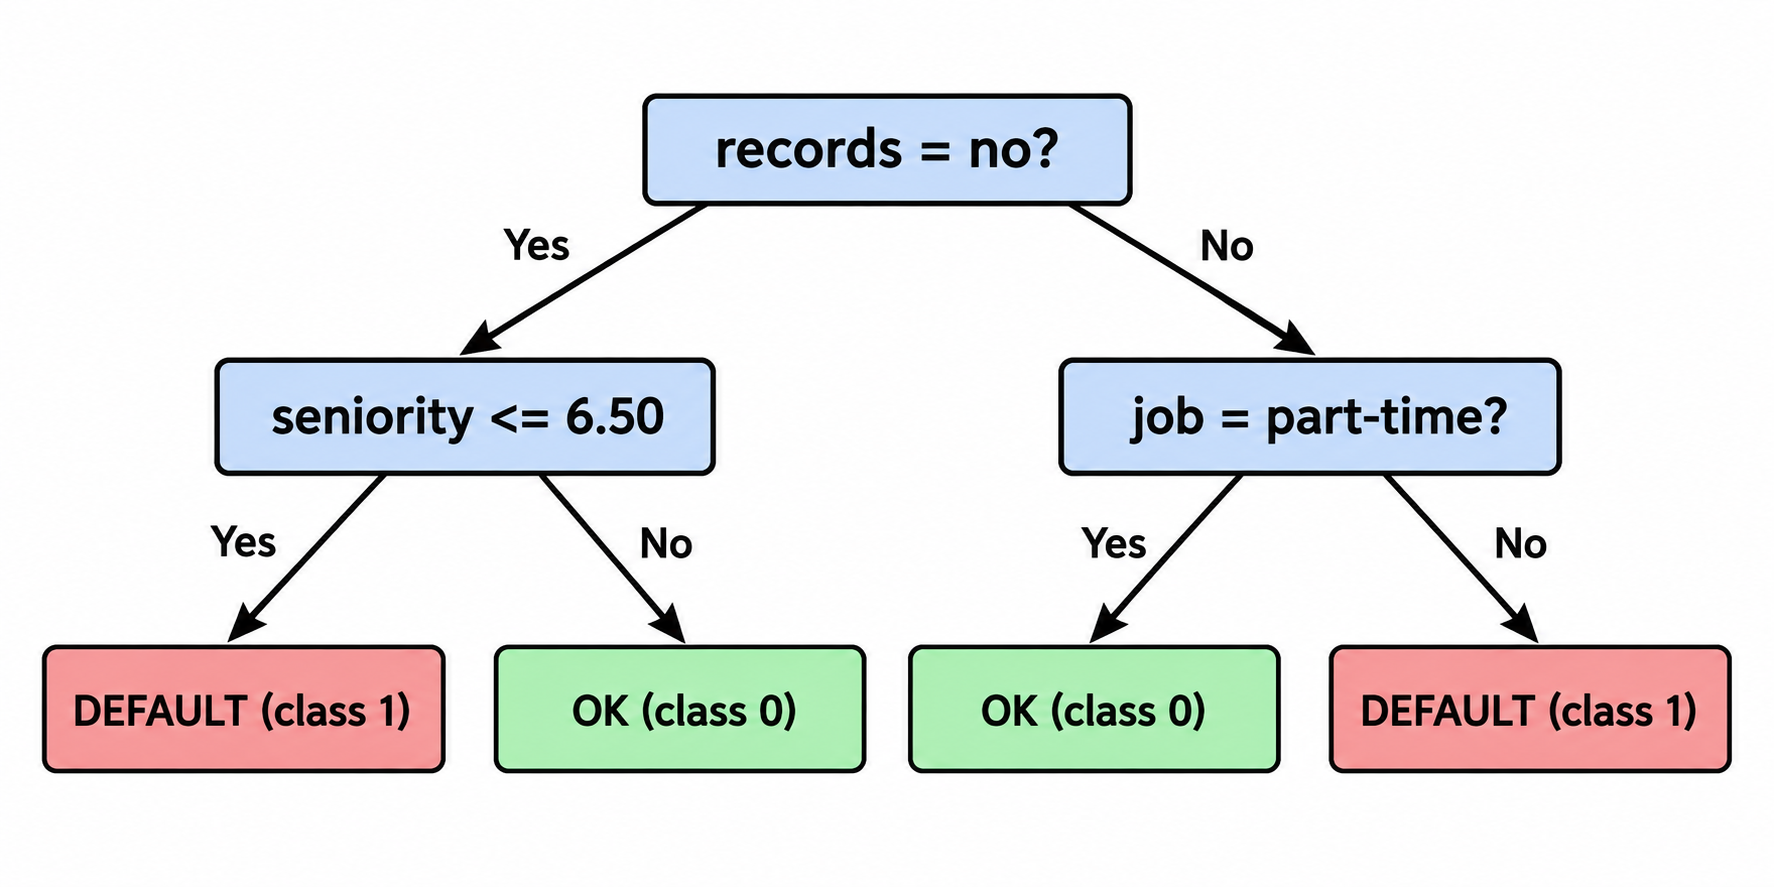
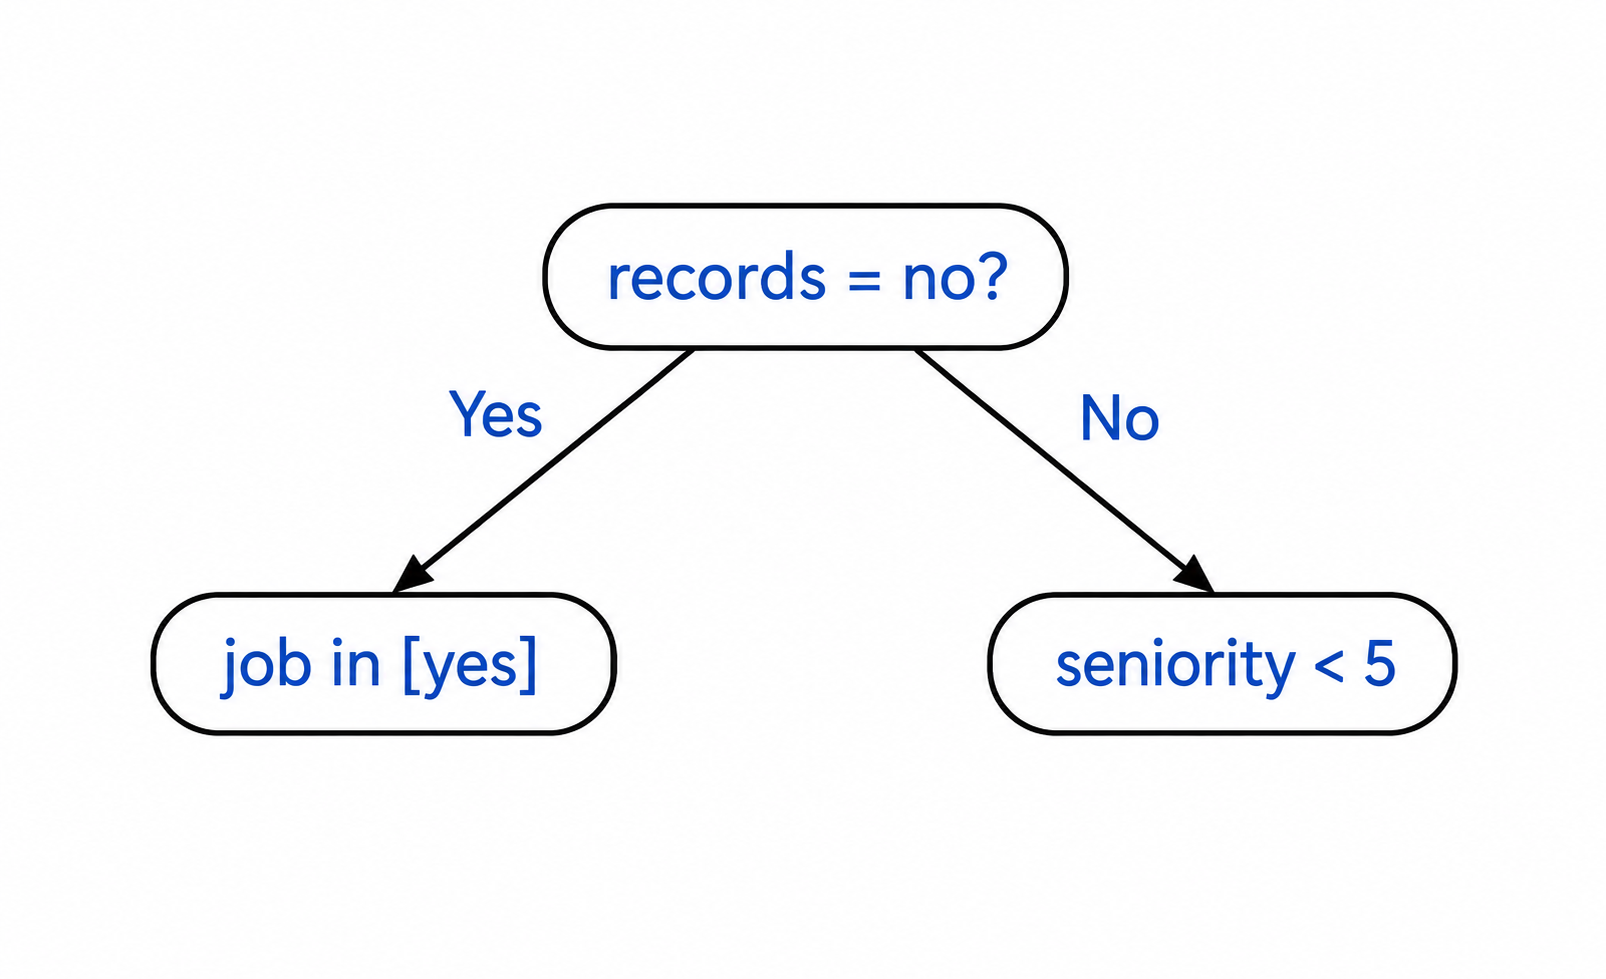
Repair learned tree branch directions

diff --git a/cohorts/2026/06-trees/images/2026-09-08-semantic-plot-repair-provenance.md b/cohorts/2026/06-trees/images/2026-09-08-semantic-plot-repair-provenance.md
@@ -31,7 +31,7 @@ directory for auditability.
 | Published target | Original source | Crop `(x, y, width, height)` | Imagegen output ID | Source SHA-256 | Crop SHA-256 | Final SHA-256 |
 |---|---|---:|---|---|---|---|
[4 lines of base64/hex data omitted]
 
 The loan diagram was regenerated once after an intermediate candidate added an
@@ -39,10 +39,14 @@ unwanted `MORE` label (`exec-b790533a-1286-43be-85ff-a209d02f3ea4`). The final
 run used the clean crop above and has only the required labels. The final
 arrows are explicit: loan application left-to-right, `YES / NO` right-to-left.
 
-The learned tree preserves the lesson's class mapping: `DEFAULT (class 1)` and
-`OK (class 0)`, with all four leaves connected. The summary tree makes the
-`records`, `job`, and `seniority` branch directions explicit with YES/NO labels.
-All three generated PNGs carry C2PA metadata from the built-in imagegen tool.
+The learned-rules target was regenerated after an independent review found that
+the root branches were reversed. The new diagram uses the original JPG and its
+bounded crop as the only inputs and preserves the corrected lesson semantics:
+`records = no?` → `Yes` → `job in [yes]`, and `No` → `seniority < 5`. It contains
+only those two child tests, with no invented leaves or extra labels. The other
+two generated PNGs preserve the class mapping and summary-tree semantics
+described above. All three generated PNGs carry C2PA metadata from the built-in
+imagegen tool.
 
 ## Deterministic native chart renders
 
